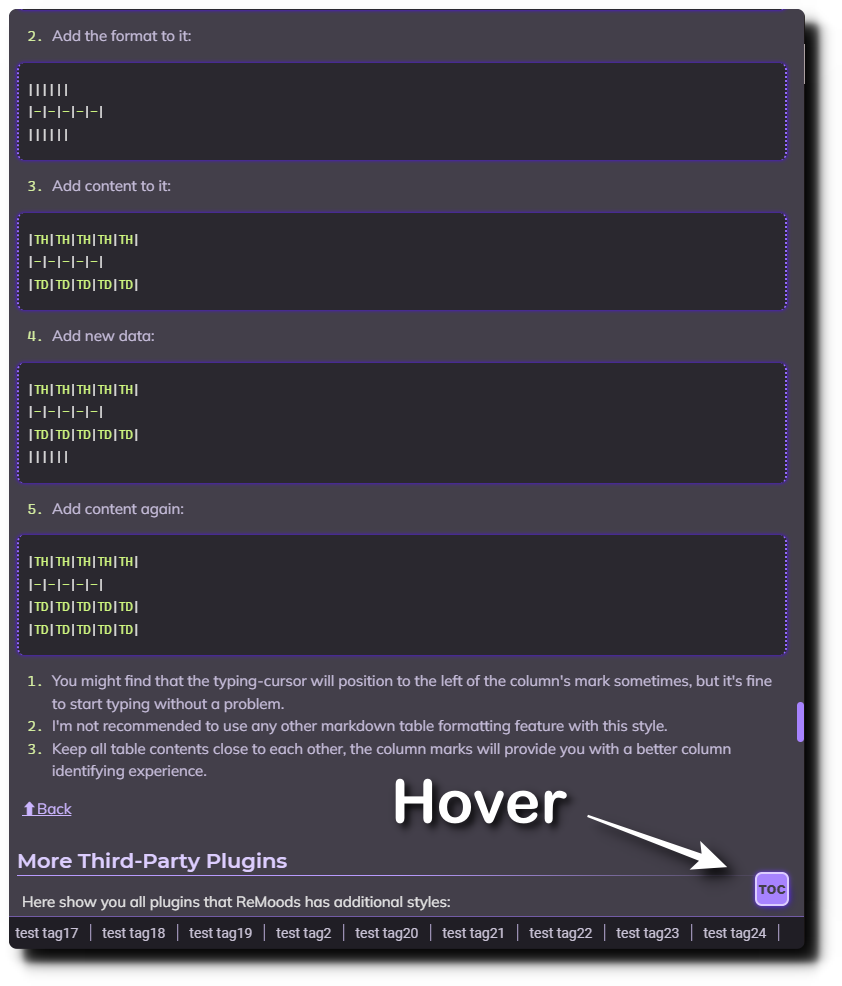
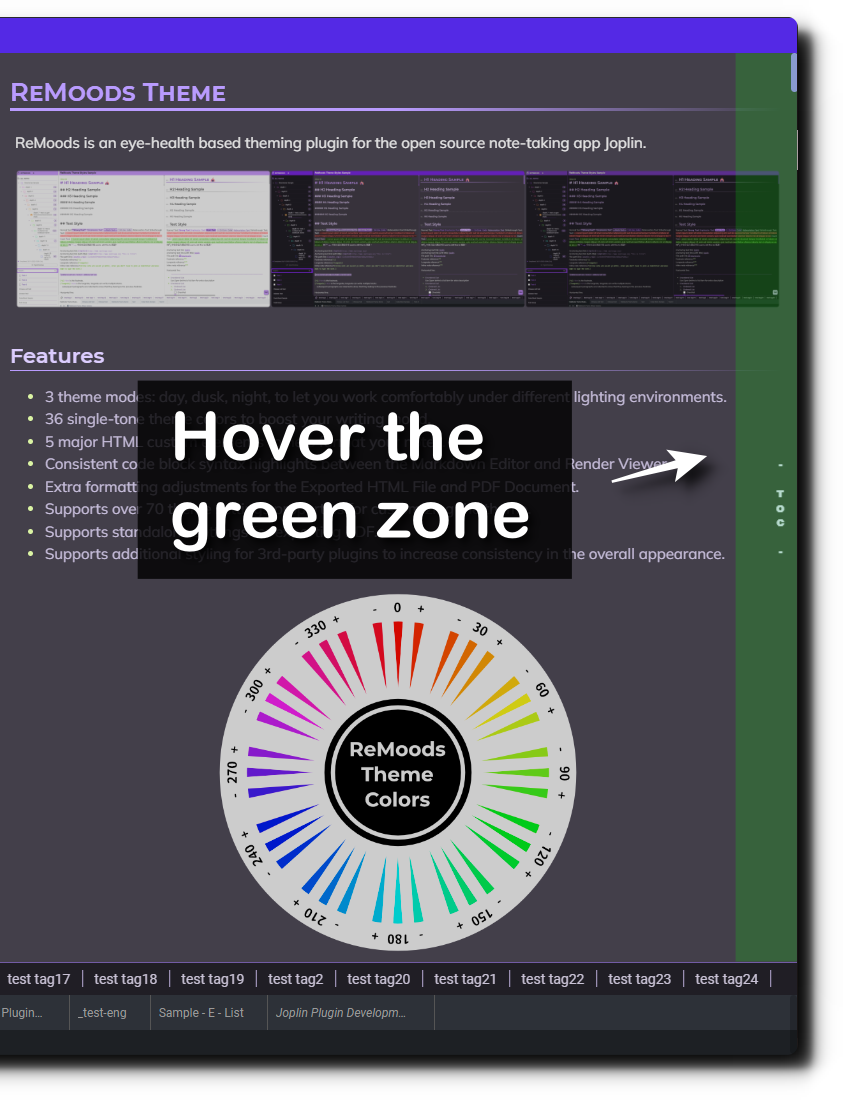
Doc: Documentation updates

diff --git a/Doc-SettingsIntroduction.md b/Doc-SettingsIntroduction.md
@@ -4,13 +4,14 @@ ReMoods Theme provides you with a deep customization experience for the notes an
 
 ## Page Navigation
 
-| [Home](https://github.com/Sinacs/Joplin.Plugin.ReMoods.Theme#remoods-theme) | [Getting Started Guide](https://github.com/Sinacs/Joplin.Plugin.ReMoods.Theme/blob/master/Doc-GettingStartedGuide.md#remoods-theme-getting-started-guide) | [Settings Introduction](https://github.com/Sinacs/Joplin.Plugin.ReMoods.Theme/blob/master/Doc-SettingsIntroduction.md) |
+| [Home](https://github.com/Sinacs/Joplin.Plugin.ReMoods.Theme#remoods-theme) | [Getting Started Guide](https://github.com/Sinacs/Joplin.Plugin.ReMoods.Theme/blob/master/Doc-GettingStartedGuide.md#remoods-theme-getting-started-guide) | Settings Introduction |
 
 ## Table Of Contents
 
-- [Basic Settings](#basic-settings)
+- [General Settings](#general-settings)
   - [ReMoods Hue](#remoods-hue)
   - [Theme Mode](#theme-mode)
+  - [Split View](#split-view) [NEW]
   - [Font](#font)
   - [Font Size](#font-size)
 - [Note Element Settings](#note-element-settings)
@@ -25,6 +26,7 @@ ReMoods Theme provides you with a deep customization experience for the notes an
   - [Enable heading marker](#enable-heading-marker)
   - [Enable twill pattern for H1 heading](#enable-twill-pattern-for-h1-heading)
   - [Enable twill pattern for horizontal rule](#enable-twill-pattern-for-horizontal-rule)
+  - [Enable Markdown TOC floating text](#enable-markdown-toc-floating-text) [NEW]
   - [Enable &#34;Justify&#34; effect](#enable-justify-effect)
   - [Enable dotted border](#enable-dotted-border)
   - [Enable math notation aligned-left](#enable-math-notation-aligned-left)
@@ -47,9 +49,9 @@ ReMoods Theme provides you with a deep customization experience for the notes an
   - [Display abbreviation description](#display-abbreviation-description)
   - [Other display elements](#other-display-elements)
 
-## Basic Settings
+## General Settings
 
-Below are the basic settings for the entire theme:
+Below are the general settings for the entire theme:
 
 [⬆Back](#table-of-contents)
 
@@ -67,6 +69,43 @@ ReMoods offers 3 theme modes for different lighting environments. Choose your fa
 
 [⬆Back](#table-of-contents)
 
+### Split View
+
+There are 2 settings for controlling the split view appearance:
+
+| Property|Area|Options|Remarks|
+|Split View Layout| Editor Panel| 1.Markdown editor to top<br /> 2.Markdown editor to bottom<br /> 3.Markdown editor to left |When set to top or bottom, the divider would be unclear. You can mouse hover over the Render Viewer then will appears clearly.|
+|Split View Scale| Editor Panel| 1.Balanced<br /> 2. Markdown editor +20%<br /> 3. Markdown editor +30%<br /> 4. Markdown editor +40%<br /> 5. Render viewer +20%<br /> 6. Render viewer +30%<br /> 7. Render viewer +40%|-|
+
+Below showing the previews based on the setting "Markdown editor to bottom" on different scales:
+
+Markdown editor +40%:
+
+![me40](screenshots/preview/splitViewLayout-meBottom-splitViewScale-me40.png)
+
+Markdown editor +30%:
+
+![me30](screenshots/preview/splitViewLayout-meBottom-splitViewScale-me30.png)
+
+Markdown editor +20%:
+
+![me20](screenshots/preview/splitViewLayout-meBottom-splitViewScale-me20.png)
+
+Balanced:
+
+![bal](screenshots/preview/splitViewLayout-meBottom-splitViewScale-balanced.png)
+
+Render viewer +20%:
+
+![rv20](screenshots/preview/splitViewLayout-meBottom-splitViewScale-rv20.png)
+
+Render viewer +30%:
+
+![rv30](screenshots/preview/splitViewLayout-meBottom-splitViewScale-rv30.png)
+
+Render viewer +40%:
+
+![rv40](screenshots/preview/splitViewLayout-meBottom-splitViewScale-rv40.png)
 ### Font
 
 Font settings are divided into two separate parts:
@@ -311,6 +350,20 @@ Disable:
 ![hrTwill-disable](screenshots/preview/hrTwill-disable.png)
 
 [⬆Back](#table-of-contents)
+
+### Enable Markdown TOC floating text
+
+| Property| Area|
+|-|-|
+|`Enable Markdown TOC floating text`| Render Viewer|
+
+Enable:
+
+![markdownTocFloatingText-enable](screenshots/preview/markdownTocFloatingText-enable.png)
+
+Disable:
+
+![markdownTocFloatingText-disable](screenshots/preview/markdownTocFloatingText-disable.png)
 
 ### Enable "Justify" effect
 

diff --git a/Doc-GettingStartedGuide.md b/Doc-GettingStartedGuide.md
@@ -4,7 +4,7 @@ Hi there! Welcome to ReMoods! This guide will be guiding you to get a complete e
 
 ## Page Navigation
 
-| [Home](https://github.com/Sinacs/Joplin.Plugin.ReMoods.Theme#remoods-theme) | [Getting Started Guide](https://github.com/Sinacs/Joplin.Plugin.ReMoods.Theme/blob/master/Doc-GettingStartedGuide.md#remoods-theme-getting-started-guide) | [Settings Introduction](https://github.com/Sinacs/Joplin.Plugin.ReMoods.Theme/blob/master/Doc-SettingsIntroduction.md) |
+| [Home](https://github.com/Sinacs/Joplin.Plugin.ReMoods.Theme#remoods-theme) | Getting Started Guide| [Settings Introduction](https://github.com/Sinacs/Joplin.Plugin.ReMoods.Theme/blob/master/Doc-SettingsIntroduction.md) |
 
 ## Table Of Contents
 

diff --git a/README.md b/README.md
@@ -199,8 +199,9 @@ Joplin provides a great built-in Markdown TOC feature which helps you create the
 
 ### 💡Tips
 
-1. The TOC button will only appear after you type the `[[toc]]` command within your notes.
-2. Mouse hovers on the TOC button to open it.
+1. The TOC floating text will only appear after you type the `[[toc]]` command within your notes.
+2. Mouse hover over the trigger area (the right hand side of render viewer) to open it.
+3. You can hide the floating text by disabling the `Enable Markdown TOC floating text` in options.
 
 [⬆Back](#table-of-contents)
 
